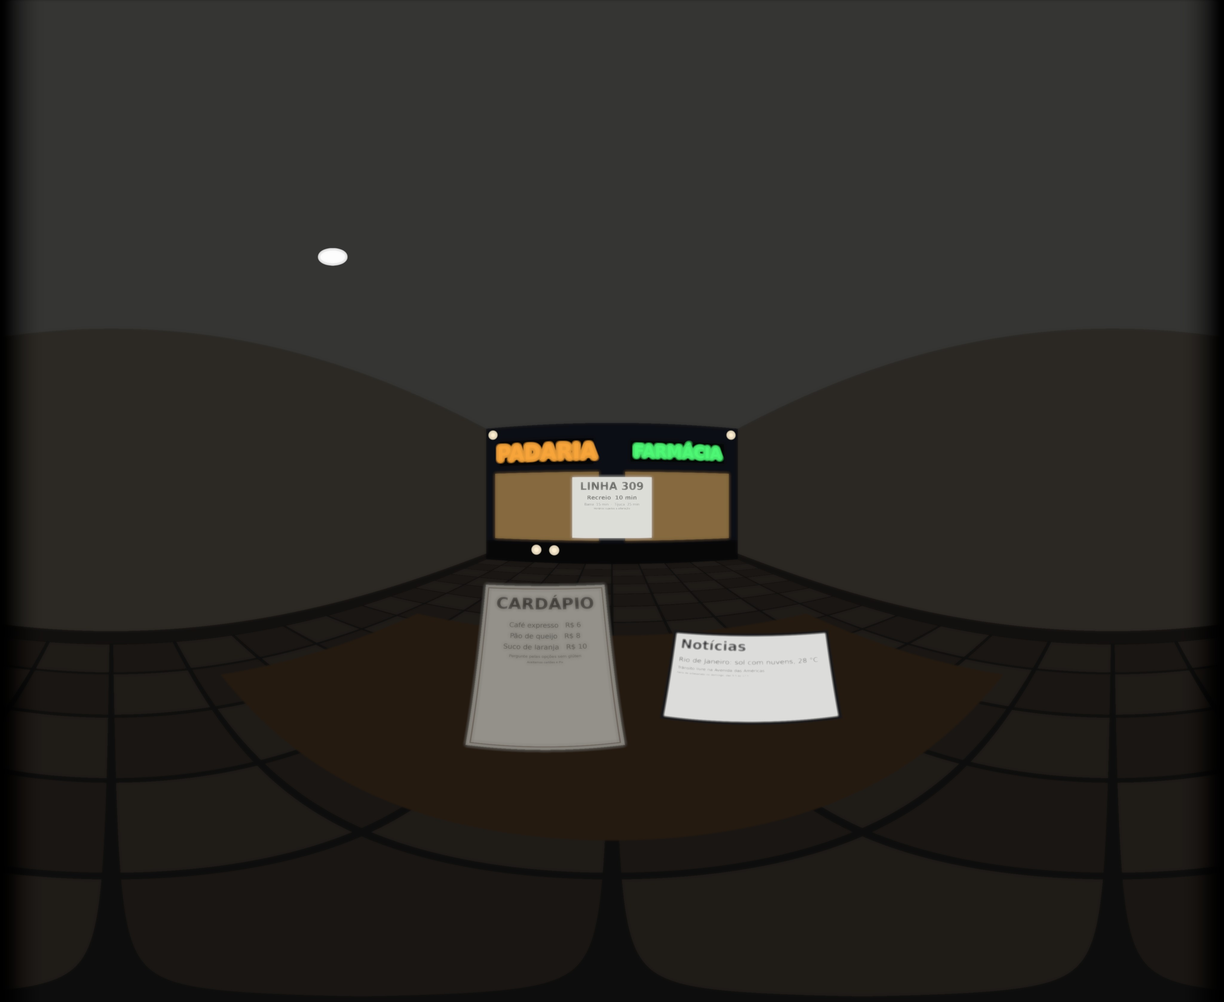
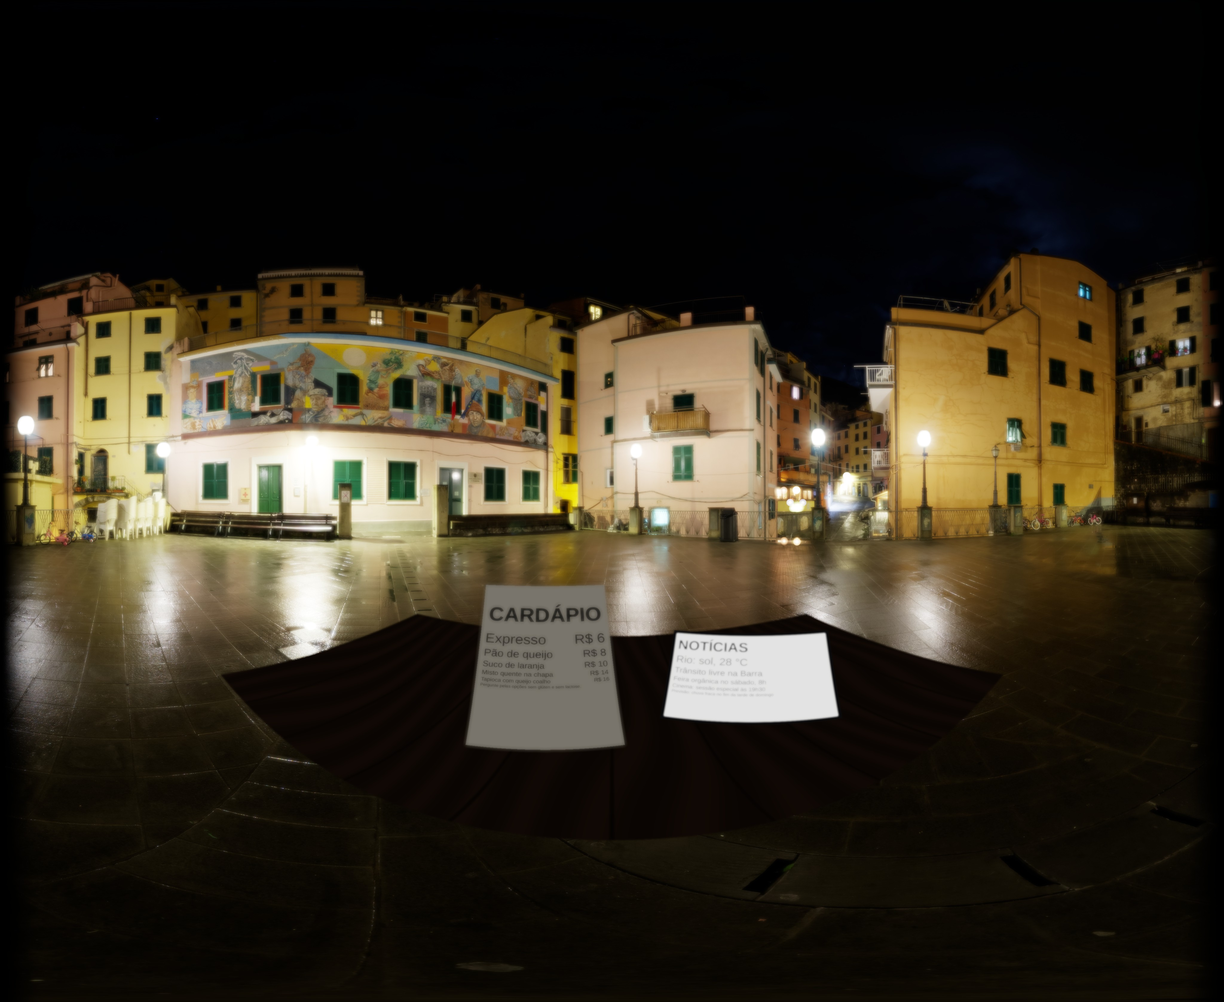
MVP: fundos 360° reais do Poly Haven no lugar da sala sintética
Fotos HDR de domínio público (CC0): palermo_sidewalk de dia e
vignaioli_night à noite, baixadas uma vez para ~/.cache. O fundo inteiro
conta como longe (10 m); mesa, notebook e cardápio continuam em distâncias
exatas, agora com as mesmas letras do kit de gravação. Saída pela curva
ACES, que vale para as duas cenas; a verificação de halo olha os núcleos
das lâmpadas reais. O teste de fumaça compara a vista da frente com a
projeção esperada da imagem (e com o espelho dela). Sai o __pycache__
versionado por engano.

Claude-Session: https://claude.ai/code/session_01XtBJ8An28GNAkWoeKpGgwd

diff --git a/tools/bake.py b/tools/bake.py
@@ -1,14 +1,16 @@
-"""Gera as imagens de cada lente a partir da cena sintética: equirretangular parcial de 220° × 180°.
+"""Gera as imagens de cada lente: equirretangular parcial de 220° × 180°.
 
 Uso: python3 tools/bake.py [folha_de_contato.jpg]   (grava media/{dia|noite}-{lente}.jpg)
-Os parâmetros clínicos ficam em tools/lentes.py.
+Os parâmetros clínicos ficam em tools/lentes.py. Precisa de numpy, Pillow, scipy e opencv.
 
-A cena é uma sala vista de quem está sentado, com camadas em distâncias conhecidas:
-rua a 6 m, sala ~3 m, mesa 0,7 m, notebook 0,66 m, cardápio 0,40 m.
+MVP sem gravação: o fundo é uma foto 360° HDR real do Poly Haven (CC0, domínio público), baixada uma vez
+para ~/.cache/olharpar-lensvr. Na frente, objetos em distâncias exatas: mesa 0,7 m, notebook 0,66 m e
+cardápio 0,40 m, com as mesmas letras do kit de gravação (tools/kit-gravacao.html).
 Convenção (a mesma do three.js): centro da imagem = +x (frente), +y = cima, +z = direita.
 O campo horizontal sai da proporção da imagem: CAMPO = 180 × W / H.
 """
-import os, sys, tempfile
+import os, sys, tempfile, urllib.request
+import cv2
 import numpy as np
 from PIL import Image, ImageDraw, ImageFont
 from scipy.ndimage import gaussian_filter, maximum_filter, zoom
@@ -20,11 +22,13 @@ W, H = 4096, 3352      # ≈18,6 px/grau, acima dos ~16 px/grau da tela no ócul
 FADE = 8               # graus de degradê para o preto em cada borda lateral
 PX_GRAU = W / CAMPO
 VEU_GRAUS = 3.0        # largura (sigma) do véu da catarata
-OMBRO = (0.7, 40.0)    # noite: acima de 0,7 comprime em log até a luz mais forte (40); o halo aparece como disco
-                       # mais fraco em volta da luz, em vez de tudo saturar em branco
+PT = 0.0352778         # cm por ponto tipográfico
+CACHE = os.path.expanduser("~/.cache/olharpar-lensvr")
+# Fotos 360° HDR do Poly Haven (CC0): (nome, longitude que fica na frente em graus, exposição)
+FUNDOS = {"dia": ("palermo_sidewalk", -10, 1.0), "noite": ("vignaioli_night", -35, 0.5)}
 RAIZ = os.path.dirname(os.path.dirname(os.path.abspath(__file__)))
-FONTE = "/usr/share/fonts/truetype/dejavu/DejaVuSans.ttf"
-FONTE_N = "/usr/share/fonts/truetype/dejavu/DejaVuSans-Bold.ttf"
+FONTE = "/usr/share/fonts/truetype/liberation/LiberationSans-Regular.ttf"   # a fonte do kit de gravação
+FONTE_N = "/usr/share/fonts/truetype/liberation/LiberationSans-Bold.ttf"
 
 
 def lin(img):
@@ -33,12 +37,9 @@ def lin(img):
     return np.where(a <= 0.04045, a / 12.92, ((a + 0.055) / 1.055) ** 2.4)
 
 
-def srgb(a, noite=False):
-    if noite:  # comprime os realces pela luminância máxima do pixel, preservando a cor
-        k, L = OMBRO
-        m = np.maximum(a.max(-1, keepdims=True), 1e-6)
-        a = a * np.where(m > k, k + (1 - k) * np.log1p(np.maximum(m - k, 0) / 0.5) / np.log1p((L - k) / 0.5), m) / m
-    a = np.clip(a / np.maximum(1, a.max(-1, keepdims=True)), 0, 1)  # satura preservando a cor (neon continua colorido)
+def srgb(a):
+    """Linear HDR -> sRGB pela curva ACES (aproximação de Narkowicz): os realces rolam suavemente para o branco."""
+    a = np.clip(a * (2.51 * a + 0.03) / (a * (2.43 * a + 0.59) + 0.14), 0, 1)
     return np.where(a <= 0.0031308, a * 12.92, 1.055 * a ** (1 / 2.4) - 0.055)
 
 
@@ -66,70 +67,54 @@ def texto(d, xy, s, tam, cor, negrito=False, anchor="la"):
 
 # ---------- texturas (sRGB, desenhadas em alta resolução) ----------
 
-def fachada(noite):
-    """Frente da sala aberta para a rua: 5 m x 2,7 m a 6 m. 400 px/m."""
-    ppm = 400
-    img = Image.new("RGB", (5 * ppm, int(2.7 * ppm)), (52, 58, 74) if noite else (196, 186, 168))
-    em = Image.new("L", img.size, 0)  # emissão noturna: intensidade = 40 * (valor/255)^2
-    d, e = ImageDraw.Draw(img), ImageDraw.Draw(em)
-    # calçada e vitrines
-    d.rectangle([0, 920, 2000, 1080], fill=(40, 40, 44) if noite else (150, 150, 150))
-    for x0, x1 in ((80, 900), (1100, 1920)):
-        d.rectangle([x0, 380, x1, 900], fill=(90, 70, 40) if noite else (120, 150, 170))
-        e.rectangle([x0, 380, x1, 900], fill=60 if noite else 0)
-    # letreiros (0,35 m e 0,30 m)
-    d.rectangle([120, 120, 860, 320], fill=(30, 30, 30) if noite else (250, 240, 220))
-    texto(d, (490, 220), "PADARIA", 160, (255, 170, 60) if noite else (120, 40, 20), True, "mm")
-    if noite:
-        texto(e, (490, 220), "PADARIA", 160, 160, True, "mm")
-    d.rectangle([1140, 140, 1880, 300], fill=(20, 40, 25) if noite else (255, 255, 255))
-    texto(d, (1510, 220), "FARMÁCIA", 120, (80, 255, 120) if noite else (20, 120, 50), True, "mm")
-    if noite:
-        texto(e, (1510, 220), "FARMÁCIA", 120, 160, True, "mm")
-    # painel do ponto de ônibus: linhas de 15, 8, 5 e 3,5 cm
-    d.rectangle([700, 420, 1300, 880], fill=(245, 245, 240))
-    if noite:
-        e.rectangle([700, 420, 1300, 880], fill=38)  # painel iluminado ~0,9: superfície legível, não fonte de luz
-    y = 440
-    for linha, cm in (("LINHA 309", 15), ("Recreio  10 min", 8), ("Barra  15 min  ·  Tijuca  25 min", 5),
-                      ("Horários sujeitos a alteração", 3.5)):
-        texto(d, (1000, y), linha, int(cm * 4 / 0.73), (20, 20, 20), cm >= 8, "ma")
-        y += int(cm * 4 / 0.73 * 1.35)
-    if noite:  # postes e faróis: fontes pequenas e muito intensas
-        for x, yy, r in ((60, 60, 14), (1940, 60, 14), (420, 980, 16), (560, 980, 16)):
-            d.ellipse([x - r, yy - r, x + r, yy + r], fill=(255, 240, 210))
-            e.ellipse([x - r, yy - r, x + r, yy + r], fill=255)
-    return img, em
+def fundo(cena):
+    """Foto 360° HDR recortada em CAMPO graus em torno da frente, em rgb linear."""
+    nome, frente, exposicao = FUNDOS[cena]
+    arq = os.path.join(CACHE, f"{nome}_8k.hdr")
+    if not os.path.exists(arq):
+        os.makedirs(CACHE, exist_ok=True)
+        urllib.request.urlretrieve(f"https://dl.polyhaven.org/file/ph-assets/HDRIs/hdr/8k/{nome}_8k.hdr", arq)
+    hdr = cv2.imread(arq, cv2.IMREAD_UNCHANGED)[..., ::-1]           # BGR -> RGB, float32
+    w0 = hdr.shape[1]
+    hdr = np.roll(hdr, int(round(-frente / 360 * w0)), axis=1)      # a longitude "frente" vai para o centro
+    n = int(round(CAMPO / 360 * w0))
+    hdr = np.ascontiguousarray(hdr[:, (w0 - n) // 2:(w0 + n) // 2])
+    return cv2.resize(hdr, (W, H), interpolation=cv2.INTER_AREA).astype(np.float32) * exposicao  # INTER_AREA conserva a energia das luzes
+
+
+def escrever(d, ppc, x, y, itens, cor, direita=None):
+    """Escreve linhas com tamanhos em pontos reais (o mesmo tamanho físico do kit)."""
+    for esq, dir_, pt, neg in itens:
+        tam = int(pt * PT * ppc)
+        texto(d, (x, y), esq, tam, cor, neg)
+        if dir_:
+            texto(d, (direita, y), dir_, tam, cor, neg, "ra")
+        y += int(tam * 1.25)
 
 
 def notebook(noite):
-    """Tela de 30 x 19 cm a 66 cm. 60 px/cm. A tela emite luz própria."""
+    """Tela de 30 x 19 cm a 66 cm, com a página 3 do kit. 60 px/cm. A tela emite luz própria."""
     ppc = 60
     img = Image.new("RGB", (30 * ppc, 19 * ppc), (25, 25, 28))
     d = ImageDraw.Draw(img)
     d.rectangle([40, 40, 30 * ppc - 40, 19 * ppc - 40], fill=(250, 250, 248))
-    y = 70
-    for linha, cm, neg in (("Notícias", 2, True), ("Rio de Janeiro: sol com nuvens, 28 °C", 1, False),
-                           ("Trânsito livre na Avenida das Américas", 0.6, False),
-                           ("Feira de artesanato no domingo, das 9 h às 17 h", 0.4, False)):
-        texto(d, (100, y), linha, int(cm * ppc / 0.73), (20, 20, 30), neg)
-        y += int(cm * ppc / 0.73 * 1.5)
+    escrever(d, ppc, int(1.2 * ppc), int(1.4 * ppc), [
+        ("NOTÍCIAS", "", 79, True), ("Rio: sol, 28 °C", "", 59, False), ("Trânsito livre na Barra", "", 46, False),
+        ("Feira orgânica no sábado, 8h", "", 36, False), ("Cinema: sessão especial às 19h30", "", 30, False),
+        ("Previsão: chuva fraca no fim da tarde de domingo", "", 23, False)], (20, 20, 30))
     return img
 
 
 def cardapio(noite):
-    """Cardápio de 15 x 21 cm a 40 cm, na mão. 60 px/cm."""
+    """Cardápio de 15 x 21 cm a 40 cm, na mão, com as linhas da página 2 do kit. 60 px/cm."""
     ppc = 60
-    img = Image.new("RGB", (15 * ppc, 21 * ppc), (252, 248, 236))
+    img = Image.new("RGB", (15 * ppc, 21 * ppc), (246, 239, 225))
     d = ImageDraw.Draw(img)
-    d.rectangle([20, 20, 15 * ppc - 20, 21 * ppc - 20], outline=(120, 80, 40), width=8)
-    y = 70
-    for linha, cm, neg in (("CARDÁPIO", 1.5, True), ("Café expresso   R$ 6", 0.6, False),
-                           ("Pão de queijo   R$ 8", 0.6, False), ("Suco de laranja   R$ 10", 0.6, False),
-                           ("Pergunte pelas opções sem glúten", 0.35, False),
-                           ("Aceitamos cartões e Pix", 0.25, False)):
-        texto(d, (15 * ppc // 2, y), linha, int(cm * ppc / 0.73), (40, 25, 15), neg, "ma")
-        y += int(cm * ppc / 0.73 * 1.7)
+    texto(d, (15 * ppc // 2, int(2.4 * ppc)), "CARDÁPIO", int(72 * PT * ppc), (27, 27, 27), True, "ma")
+    escrever(d, ppc, int(0.6 * ppc), int(6 * ppc), [
+        ("Expresso", "R$ 6", 48, False), ("Pão de queijo", "R$ 8", 36, False), ("Suco de laranja", "R$ 10", 28, False),
+        ("Misto quente na chapa", "R$ 14", 22, False), ("Tapioca com queijo coalho", "R$ 16", 18, False),
+        ("Pergunte pelas opções sem glúten e sem lactose.", "", 14, False)], (27, 27, 27), int(14.4 * ppc))
     return img
 
 
@@ -159,51 +144,17 @@ def cartao(D, centro, largura, altura, tex_rgb, ganho):
     return rgb, dentro.astype(np.float32)
 
 
-def sala(D, noite):
-    """Caixa x[-3,6] y[-1.2,1.5] z[-2.5,2.5]. Devolve as camadas (rua, sala)."""
-    lim = ((-3.0, 6.0), (-1.2, 1.5), (-2.5, 2.5))
-    t = np.full(D.shape[:2], np.inf, np.float32)
-    face = np.zeros(D.shape[:2], np.int8)
-    with np.errstate(divide="ignore", invalid="ignore"):
-        for i, (lo, hi) in enumerate(lim):
-            for k, b in ((0, lo), (1, hi)):
-                ti = b / D[..., i]
-                m = (ti > 0) & (ti < t)
-                t[m], face[m] = ti[m], 2 * i + k
-    p = D * t[..., None]
-    x, y, z = p[..., 0], p[..., 1], p[..., 2]
-    luz = 0.05 if noite else 1.0
-    rgb = np.zeros(D.shape, np.float32)
-    cor = {0: (0.42, 0.36, 0.30), 2: (0.20, 0.16, 0.13), 3: (0.70, 0.70, 0.68), 4: (0.50, 0.44, 0.36), 5: (0.48, 0.42, 0.35)}
-    for f, c in cor.items():
-        rgb[face == f] = np.array(c, np.float32) * luz
-    chao = face == 2  # piso em ladrilhos de 50 cm com rejunte
-    rejunte = (np.abs((x / 0.5) % 1 - 0.5) > 0.47) | (np.abs((z / 0.5) % 1 - 0.5) > 0.47)
-    xadrez = ((np.floor(x / 0.5) + np.floor(z / 0.5)) % 2 == 0)
-    rgb[chao & xadrez] *= 1.35
-    rgb[chao & rejunte] = np.array((0.08, 0.08, 0.08), np.float32) * luz
-    rodape = np.isin(face, (0, 4, 5)) & (y < -1.08)
-    rgb[rodape] = np.array((0.12, 0.10, 0.09), np.float32) * luz
-    if noite:  # luminária pendente no teto, à esquerda
-        lamp = (face == 3) & ((x - 1.0) ** 2 + (z + 1.2) ** 2 < 0.06 ** 2)
-        rgb[lamp] = 30.0
-    frente = face == 1
-    img, em = fachada(noite)
-    tex = lin(img) * ((0.10 if noite else 1.0) + 40 * ((np.asarray(em, np.float32) / 255) ** 2)[..., None])
-    th, tw = tex.shape[:2]
-    rua = np.zeros(D.shape, np.float32)
-    rua[frente] = amostrar(tex, (z[frente] + 2.5) / 5 * tw, (1.5 - y[frente]) / 2.7 * th)
-    return (rua, frente.astype(np.float32)), (rgb, (~frente).astype(np.float32))
-
-
 def mesa(D, noite):
     """Tampo a 45 cm abaixo dos olhos, x[0.25,1.0] z[-0.7,0.7]."""
     with np.errstate(divide="ignore", invalid="ignore"):
         t = -0.45 / D[..., 1]
     p = D * t[..., None]
     dentro = (t > 0) & (p[..., 0] > 0.25) & (p[..., 0] < 1.0) & (np.abs(p[..., 2]) < 0.7)
+    x, z = p[..., 0], p[..., 2]
+    veio = 0.85 + 0.15 * np.sin(z * 90 + 3 * np.sin(x * 7 + z * 11))       # veios da madeira
+    veio = np.where(np.abs((z / 0.14) % 1 - 0.5) > 0.485, 0.45, veio)        # frestas entre tábuas de 14 cm
     rgb = np.zeros(D.shape, np.float32)
-    rgb[dentro] = np.array((0.30, 0.17, 0.08), np.float32) * (0.06 if noite else 1.0)
+    rgb[dentro] = np.array((0.20, 0.12, 0.065), np.float32) * veio[dentro, None] * (0.06 if noite else 0.9)
     return rgb, dentro.astype(np.float32)
 
 
@@ -215,14 +166,11 @@ def posicao(dist, azim, elev):
 def construir_cena(noite):
     """Camadas da mais distante para a mais próxima: (distância em m, rgb linear, alfa)."""
     D = direcoes()
-    rua, sala_ = sala(D, noite)
-    nb_img, cd_img = notebook(noite), cardapio(noite)
     return [
-        (6.0, *rua),
-        (3.0, *sala_),
-        (0.7, *mesa(D, noite)),
-        (0.66, *cartao(D, posicao(0.66, 25, -32), 0.30, 0.19, nb_img, 0.9)),
-        (0.40, *cartao(D, posicao(0.40, -12, -30), 0.15, 0.21, cd_img, 0.30 if noite else 0.9)),
+        (10.0, fundo("noite" if noite else "dia"), np.ones((H, W), np.float32)),  # ponytail: o fundo inteiro conta
+        (0.7, *mesa(D, noite)),                                                    # como longe (10 m); a mesa cobre o chão
+        (0.66, *cartao(D, posicao(0.66, 25, -32), 0.30, 0.19, notebook(noite), 0.9)),  # perto da câmera
+        (0.40, *cartao(D, posicao(0.40, -12, -30), 0.15, 0.21, cardapio(noite), 0.15 if noite else 0.9)),
     ]
 
 
@@ -316,7 +264,7 @@ def verificar(cena, imgs, nitida, rua):
     assert cat[..., 2].mean() / cat[..., 0].mean() < mono[..., 2].mean() / mono[..., 0].mean(), "catarata amarela"
     assert cat.std() < mono.std(), "catarata com menos contraste"
     if cena == "noite":  # halo: brilho num anel em volta das luzes intensas
-        luz = nitida.max(-1) > 5
+        luz = nitida.max(-1) > 50  # núcleos das lâmpadas; fachadas iluminadas ficam abaixo disso
         anel = maximum_filter(luz, 25) & ~maximum_filter(luz, 7)
         brilho = lambda n: imgs[n].max(-1)[anel].mean()
         assert brilho("multifocal") > 1.5 * brilho("monofocal"), "a multifocal precisa de halo à noite"
@@ -329,13 +277,13 @@ def degrade(rgb):
     return rgb * (f * f * (3 - 2 * f))[None, :, None]
 
 
-def oito_bits(rgb, noite=False):
-    return (srgb(rgb, noite) * 255 + 0.5).astype(np.uint8)
+def oito_bits(rgb):
+    return (srgb(rgb) * 255 + 0.5).astype(np.uint8)
 
 
-def salvar(rgb, nome, noite=False):
+def salvar(rgb, nome):
     os.makedirs(os.path.join(RAIZ, "media"), exist_ok=True)
-    Image.fromarray(oito_bits(degrade(rgb), noite)).save(os.path.join(RAIZ, "media", nome), quality=90)
+    Image.fromarray(oito_bits(degrade(rgb))).save(os.path.join(RAIZ, "media", nome), quality=90)
 
 
 def folha_de_contato(recortes, caminho, w=400, h=300):
@@ -356,21 +304,23 @@ def folha_de_contato(recortes, caminho, w=400, h=300):
 
 if __name__ == "__main__":
     folha = sys.argv[1] if len(sys.argv) > 1 else os.path.join(tempfile.gettempdir(), "folha-de-contato.jpg")
-    regioes = {"longe": (2048, 1620), "intermediário": (2513, 2272), "perto": (1825, 2086)}  # centros em px
+    perto = {"intermediário": (2486, 2235), "perto": (1825, 2160)}  # centros dos recortes em px
+    regioes = {"dia": {"longe": (2700, 1620), **perto}, "noite": {"longe": (2700, 1500), **perto}}
     recortes = {}
     for cena, noite in (("dia", False), ("noite", True)):
         camadas = construir_cena(noite)
         nitida = compor(camadas)
-        # autoverificação da cena: frente = rua, cardápio onde foi posto, luzes à noite
-        assert camadas[0][2][H // 2 - 20, W // 2] == 1, "o centro da imagem deve mostrar a rua"
+        # autoverificação da cena: fundo cobrindo tudo, cardápio onde foi posto, luzes intensas à noite
+        assert camadas[0][2].min() == 1, "o fundo deve cobrir a imagem inteira"
         lon, lat = int((0.5 - 12 / CAMPO) * W), int((0.5 + 30 / 180) * H)
-        assert camadas[4][2][lat, lon] == 1, "o cardápio deve estar a 12° à esquerda e 30° abaixo"
-        assert (nitida.max(-1) > 1).sum() > (100 if noite else -1), "a cena noturna precisa de luzes intensas"
+        assert camadas[-1][2][lat, lon] == 1, "o cardápio deve estar a 12° à esquerda e 30° abaixo"
+        assert (nitida.max(-1) > 5).sum() > (100 if noite else -1), "a cena noturna precisa de luzes intensas"
         imgs = {nome: catarata(desfocar(camadas, l, PUPILA_MM[cena]), l) for nome, l in LENTES.items()}
-        verificar(cena, imgs, nitida, camadas[0][2] == 1)
+        longe = ~maximum_filter(sum(a for _, _, a in camadas[1:]) > 0, 61)  # só fundo, longe das bordas dos objetos
+        verificar(cena, imgs, nitida, longe)
         for nome, img in imgs.items():
-            salvar(img, f"{cena}-{nome}.jpg", noite)
-        recortes[cena] = {n: {r: oito_bits(i[y - 150:y + 150, x - 200:x + 200], noite) for r, (x, y) in regioes.items()}
+            salvar(img, f"{cena}-{nome}.jpg")
+        recortes[cena] = {n: {r: oito_bits(i[y - 150:y + 150, x - 200:x + 200]) for r, (x, y) in regioes[cena].items()}
                           for n, i in {"nítida": nitida, **imgs}.items()}
         print(cena, "ok")
     folha_de_contato(recortes, folha)

diff --git a/tests/smoke.py b/tests/smoke.py
@@ -42,15 +42,28 @@ finally:
 
 assert not erros, erros
 img = {k: np.asarray(Image.open(v).convert("RGB"), np.int16) for k, v in FOTO.items()}
-# Sem espelhamento e com a frente no centro: a PADARIA (vermelho-escuro) fica à esquerda da FARMÁCIA (verde).
-r, g, b = (img["monofocal"][..., i] for i in range(3))
-verde = (g > r + 50) & (g > b + 30)
-vermelho = (r > g + 50) & (r > b + 50) & (r < 170)
-assert verde.sum() > 50 and vermelho.sum() > 50, "fachada não aparece na frente"
-xv, xr = np.nonzero(verde)[1].mean(), np.nonzero(vermelho)[1].mean()
-assert xr < xv, f"imagem espelhada: PADARIA em x={xr:.0f}, FARMÁCIA em x={xv:.0f}"
-assert abs((xr + xv) / 2 - img["monofocal"].shape[1] / 2) < img["monofocal"].shape[1] * 0.1, "frente fora do centro"
-# Fora do VR aparece o olho esquerdo; na monovisão ele é o de perto, então a fachada ao longe fica borrada.
+
+
+def vista_esperada(jpg, h, w, fov_v=75):
+    """Projeta a imagem equirretangular parcial numa câmera olhando para +x, como o app mostra fora do VR."""
+    src = np.asarray(Image.open(jpg).convert("L"), np.float32)
+    campo = np.pi * src.shape[1] / src.shape[0]
+    t = np.tan(np.radians(fov_v / 2))
+    v, u = np.mgrid[0:h, 0:w] + 0.5
+    y, z = (1 - 2 * v / h) * t, (2 * u / w - 1) * t * w / h
+    lon, lat = np.arctan2(z, 1), np.arctan2(y, np.hypot(1, z))
+    col = ((lon / campo + 0.5) * src.shape[1]).astype(int).clip(0, src.shape[1] - 1)
+    lin = ((0.5 - lat / np.pi) * src.shape[0]).astype(int).clip(0, src.shape[0] - 1)
+    return src[lin, col]
+
+
+# Frente no centro e sem espelhamento: a tela bate com a projeção esperada da imagem, e não com o espelho dela.
+reduz = lambda a: np.asarray(Image.fromarray(a.astype(np.uint8)).resize((193, 90), Image.BOX), np.float32).ravel()
+tela = reduz(img["monofocal"].mean(-1))
+esperada = vista_esperada(os.path.join(RAIZ, "media", "dia-monofocal.jpg"), *img["monofocal"].shape[:2])
+corr, corr_espelho = (np.corrcoef(tela, reduz(e))[0, 1] for e in (esperada, esperada[:, ::-1]))
+assert corr > 0.9 and corr > corr_espelho + 0.2, f"vista da frente: correlação {corr:.2f}, espelhada {corr_espelho:.2f}"
+# Fora do VR aparece o olho esquerdo; na monovisão ele é o de perto, então o fundo ao longe fica borrado.
 nitidez = lambda a: np.square(np.diff(a[150:330, 500:1050].mean(-1), axis=1)).mean()  # energia do gradiente cai com o borrão
 assert nitidez(img["monovisao"]) < 0.8 * nitidez(img["monofocal"]), "monovisão: OE devia mostrar a imagem de perto"
 print("smoke ok")

diff --git a/.scratch/esqueleto/spec.md b/.scratch/esqueleto/spec.md
@@ -8,7 +8,8 @@ O paciente de catarata precisa escolher entre lentes (monofocal, EDOF, multifoca
 
 Um simulador em óculos VR de encaixar celular. O paciente olha ao redor de uma cena real de ~220° e vê, capítulo por capítulo, como enxergaria com catarata e depois com cada lente, de dia e à noite. A secretária escolhe as lentes antes de encaixar o celular e a sequência roda sozinha.
 
-- **MVP:** fotos da Insta360 X6 (café na calçada de dia, carro parado à noite) com a narração do Dr. Henrique em áudio. A cena sintética fica como bancada de teste da óptica, porque nela a distância de cada pixel é exata.
+- **MVP (sem gravação):** fotos 360° HDR de domínio público do Poly Haven (CC0): uma rua em Palermo de dia (`palermo_sidewalk`) e uma praça em Vignaioli à noite (`vignaioli_night`). Na frente, mesa, cardápio e notebook sintéticos em distâncias exatas, com as letras do kit. Narração do Dr. Henrique em áudio quando gravada.
+- **Depois do MVP:** fotos da Insta360 X6 (café na calçada de dia, carro parado à noite), ticket 05.
 - **Produto final:** vídeo da X6 no lugar das fotos, com a mesma óptica aplicada quadro a quadro.
 
 ## User stories
@@ -47,7 +48,8 @@ Um simulador em óculos VR de encaixar celular. O paciente olha ao redor de uma 
 
 **Óptica (fora do app)**
 - O app não calcula desfoque. Um script gera as imagens de cada lente e o app só troca as imagens.
-- A entrada do script são camadas (distância, cor linear, alfa), da mais distante para a mais próxima. Na cena sintética as camadas vêm da geometria; nas fotos, do mapa de profundidade fatiado em dioptrias.
+- A entrada do script são camadas (distância, cor linear, alfa), da mais distante para a mais próxima. No MVP, a foto HDR inteira conta como longe (10 m) e os objetos da frente têm distância exata; nas fotos da X6, as camadas virão do mapa de profundidade fatiado em dioptrias.
+- Saída pela curva de tom ACES: os realces rolam suavemente para o branco, e as luzes fortes continuam acima do branco antes do borrão, o que gera o halo.
 - Modelo: cada lente é um conjunto de componentes (foco em dioptrias, faixa nítida em torno do foco, fração da luz). O desfoque efetivo de um objeto é a distância dióptrica até o foco, menos a faixa. O tamanho do borrão é pupila × desfoque × ganho. À noite as luzes têm alta intensidade, de modo que os halos surgem do próprio desfoque (a parte da luz que a lente desvia para perto aparece como halo em volta das luzes de longe).
 - A catarata soma um véu de espalhamento, perda de contraste e amarelamento. O astigmatismo usa um borrão elíptico: o equivalente esférico fica no foco e os dois meridianos principais a ±C/2 dele.
 - Ganho inicial 2,0 (1,0 = óptica física). Motivo: a tela do óculos não mostra nada mais fino que ~20/75, então o desfoque precisa crescer na mesma proporção para manter as diferenças entre as lentes. Por isso os textos de perto e intermediários das fotos são impressos 2× maiores que o normal: com ganho 2,0, a proporção entre borrão e letra fica igual à da vida real. Calibrado pelo médico olhando no óculos.
@@ -66,7 +68,7 @@ Valores iniciais, aprovados pelo Dr. Henrique em 23/10/2026 como ponto de partid
 
 - Imagens em 4096 × 3352 (220° × 180°, ≈18,6 px/grau, acima dos ~16 px/grau da tela no óculos). Nomes: `media/{dia|noite}-{catarata|monofocal|edof|multifocal|astig|perto}.jpg`. A tórica corrigida e o OD da monovisão reusam a monofocal.
 
-**Cenas**
+**Cenas da gravação (depois do MVP)**
 - Dia: café na calçada. Longe a 6 m ou mais (placas, fachadas), intermediário a ~66 cm (notebook), perto a 40 cm (cardápio).
 - Noite: banco do motorista de um carro parado. Longe (faróis, postes, semáforo), intermediário a ~70 cm (painel, GPS), perto a 40 cm (celular).
 - Roteiro de gravação, medidas e adereços com letras graduadas: `tools/kit-gravacao.html` (o PDF é gerado dele).
@@ -88,7 +90,7 @@ Valores iniciais, aprovados pelo Dr. Henrique em 23/10/2026 como ponto de partid
 - Um bom teste verifica comportamento externo, não detalhes internos.
 - Costura 1: montagem da sequência a partir da seleção de lentes (lógica pura), testada com o test runner nativo do Node.
 - Costura 2: processamento óptico, com verificações embutidas no script (sem borrão onde a lente foca, borrão crescente com o desfoque, frações somando 1, dimensões das imagens) e uma folha de contato com todas as variantes para revisão visual.
-- Costura 3: a página num navegador headless, sem WebXR (carrega sem erros, avança os capítulos). A aceitação final é o teste do médico com o óculos.
+- Costura 3: a página num navegador headless, sem WebXR (carrega sem erros, avança os capítulos, a vista da frente bate com a projeção esperada da imagem e não está espelhada). A aceitação final é o teste do médico com o óculos.
 
 ## Fora do escopo
 

diff --git a/.scratch/esqueleto/issues/05-cenas-reais.md b/.scratch/esqueleto/issues/05-cenas-reais.md
@@ -1,6 +1,6 @@
-# 05: Cenas reais (fotos da X6)
+# 05: Cenas reais (fotos da X6, depois do MVP)
 
-**What to build:** Transformar as fotos do café (dia) e do carro (noite) nas imagens das lentes, no lugar da cena sintética. Junta as 3 exposições em HDR, recorta 220° × 180° com a cena no centro, estima a profundidade com um modelo monocular métrico ajustado às medidas da trena, fatia em camadas por dioptria e passa pela óptica do ticket 03.
+**What to build:** Transformar as fotos do café (dia) e do carro (noite) nas imagens das lentes, no lugar dos fundos do Poly Haven do MVP. Junta as 3 exposições em HDR, recorta 220° × 180° com a cena no centro, estima a profundidade com um modelo monocular métrico ajustado às medidas da trena, fatia em camadas por dioptria e passa pela óptica do ticket 03.
 
 **Blocked by:** 03 e as fotos (roteiro em `tools/kit-gravacao.html`)
 
